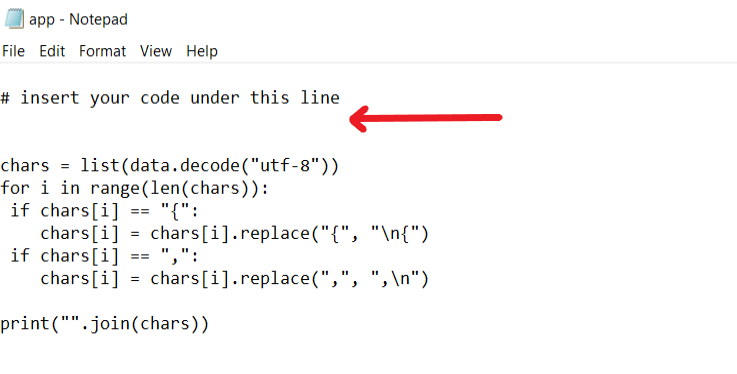
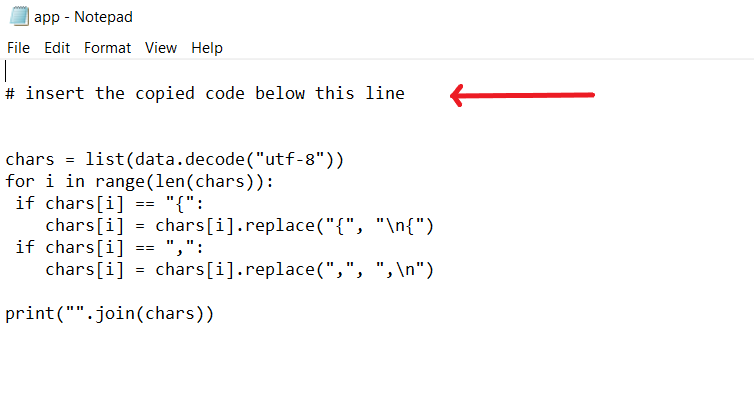
Changet repository

diff --git a/app.py b/app.py
@@ -1,5 +1,5 @@
 
-# insert your code under this line
+# insert the copied code below this line
 
 
 chars = list(data.decode("utf-8"))

diff --git a/readme.md b/readme.md
@@ -1,4 +1,4 @@
-# basic-Python-Postman-App
+# dev-portal-basic-Python-Java-Postman-App-sample
 ## Requirements
 Building the client library requires:
 1.  Python 3.0 or higher [Installation][1]
@@ -13,9 +13,9 @@ Building the client library requires:
 
 
 ## Installation
-To copy the API client to your computer copy link of the repository, open Command Prompt, go to the location where project will be copied and execute git clone command:
+To copy the client to your computer copy link of the repository, open Command Prompt, go to the location where project will be copied and execute git clone command:
 ```shell
-git clone https://github.com/OlhaLevko/basic-Python-Postman-App.git
+git clone https://github.com/kyriba/dev-portal-basic-Python-Java-Postman-App-sample.git
 ```
 Open the project folder via command prompt, for example:
 ```shell
